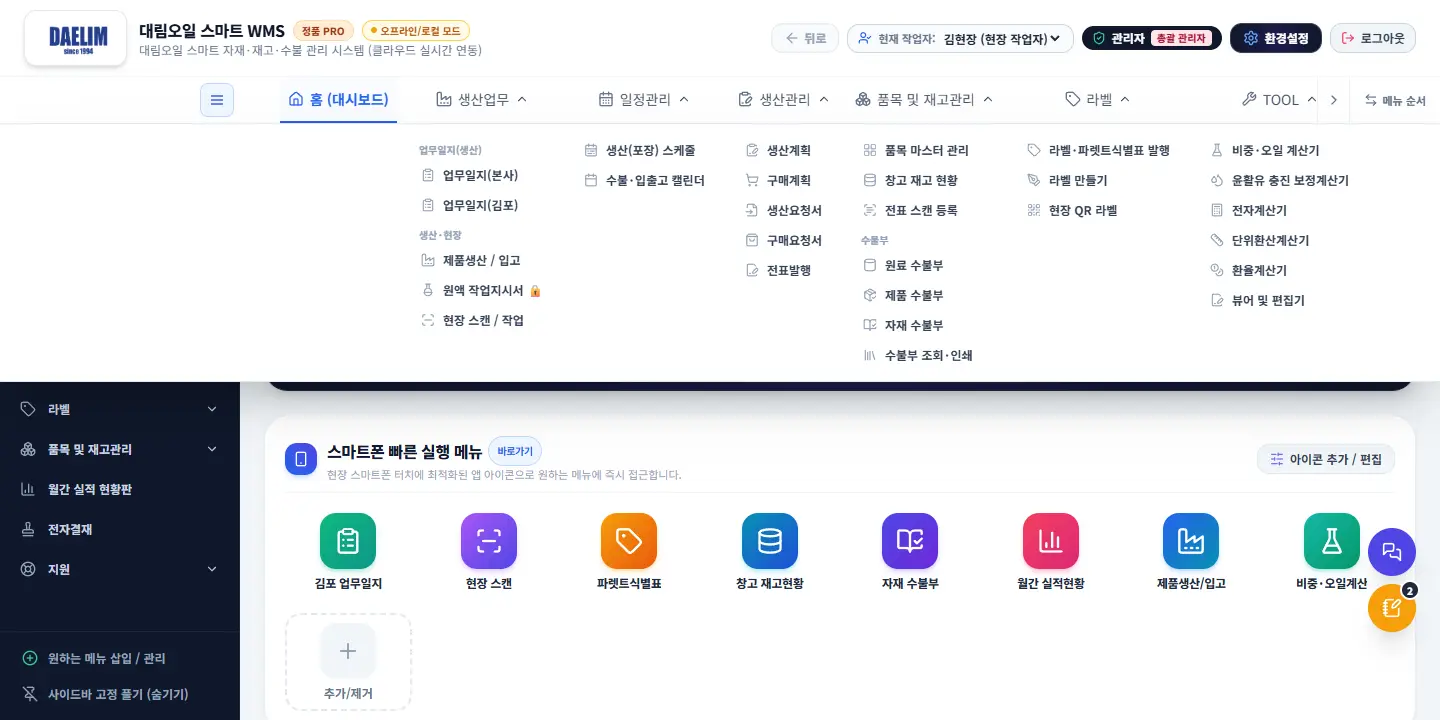
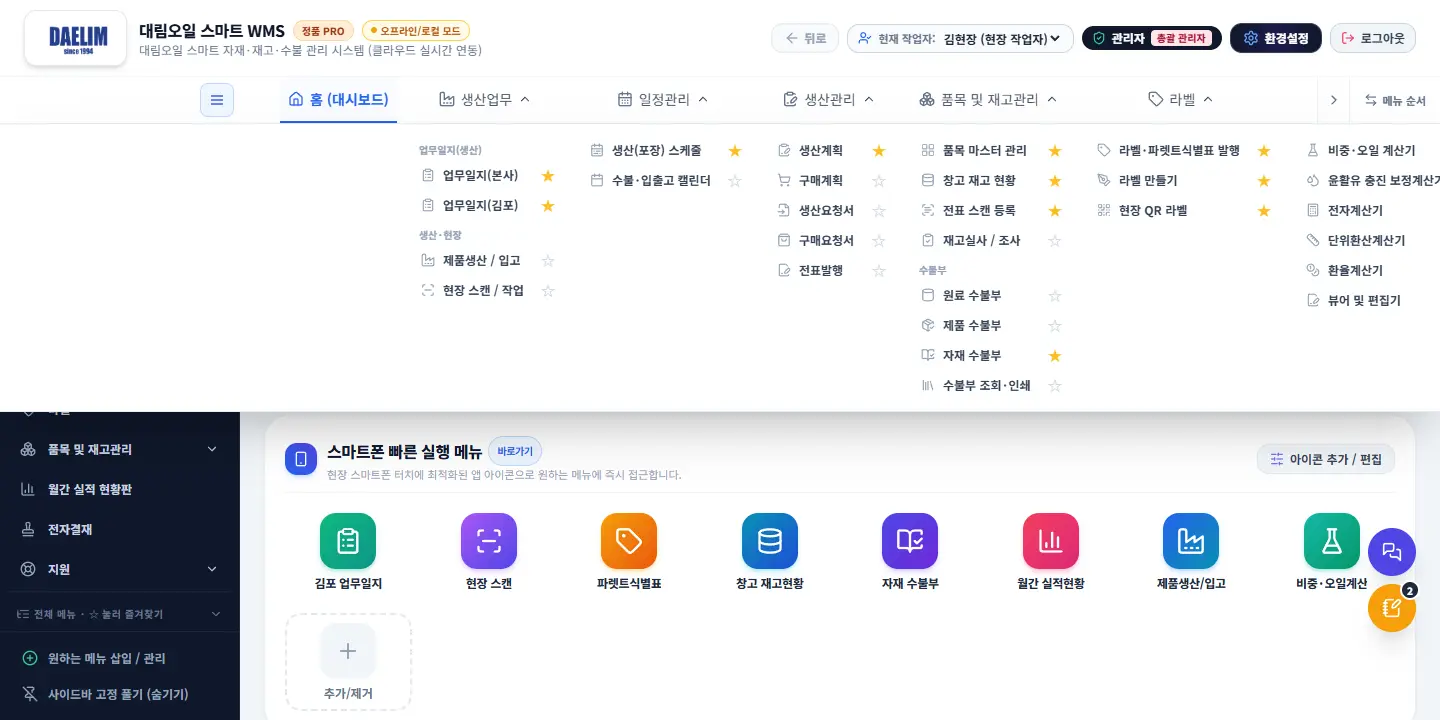
메뉴 정리: 재고실사 → 품목 및 재고관리, 원액 작업지시서 단독(접기·펼치기), 즐겨찾기, 모든 메뉴 아이콘
- 재고실사/조사를 품목 및 재고관리 묶음으로 이동
- 원액 작업지시서 🔒를 TOOL 오른쪽 단독 메뉴로, ‹ 로 접으면 자물쇠만 (기기별 기억)
- 사이드바 '전체 메뉴' 목록과 상단 전체 메뉴에서 ☆로 즐겨찾기 등록/해제
- 홈 빠른 실행 아이콘: 아이콘이 없던 메뉴(생산계획·전표발행·전자결재·공지사항·계산기 등) 모두 추가
- 매뉴얼 갱신

diff --git a/src/components/Header.js b/src/components/Header.js
@@ -3,7 +3,8 @@ import { isSupabaseConfigured } from '../services/supabase.js';
 import { ROLE_INFO, canAccessTab } from '../services/auth.js';
 import { esc } from '../services/html.js';
 import { createIcons, icons } from '../services/icons.js';
-import { TAB_META, orderedNav, loadNavOrder, saveNavOrder, resetNavOrder } from './navMenu.js';
+import { getPinnedMenus } from './Sidebar.js';
+import { TAB_META, orderedNav, loadNavOrder, saveNavOrder, resetNavOrder, navCollapsed, toggleNavCollapsed } from './navMenu.js';
 
 // 상단 메뉴 순서 바꾸기 모드 (다시 그려도 유지)
 let navEditMode = false;
@@ -29,9 +30,21 @@ export const renderHeader = (container, args) => {
         return items.some(x => typeof x === 'string') ? { ...n, items } : null;
     }).filter(Boolean);
     const groupActive = (n) => n.items?.includes(currentTab);
+    const collapsedIds = navCollapsed();
     const topHtml = (n) => {
         const meta = n.tab ? TAB_META[n.tab] : n;
         const active = n.tab ? n.tab === currentTab : groupActive(n);
+        // 접을 수 있는 메뉴(원액 작업지시서 🔒): 접으면 자물쇠 아이콘만, 누르면 펼침 / 펼치면 이름 옆 ‹ 로 접기
+        if (n.collapsible && !navEditMode) {
+            const folded = collapsedIds.includes(n.id);
+            const cls = `${active ? 'active border-blue-600 text-blue-600 font-bold bg-blue-50/40' : 'border-transparent text-slate-600'} py-3 border-b-2 hover:text-blue-600 flex items-center gap-1.5 whitespace-nowrap transition`;
+            return `<div class="nav-top relative shrink-0 flex items-stretch" data-node="${esc(n.id)}">
+                ${folded
+                    ? `<button type="button" class="nav-collapse ${cls} px-2" data-collapse="${esc(n.id)}" title="${esc(meta.label)} — 눌러서 펼치기"><i data-lucide="lock" class="w-4 h-4 text-amber-600"></i><i data-lucide="chevron-right" class="w-3 h-3 text-slate-400"></i></button>`
+                    : `<button type="button" data-tab="${esc(n.tab)}" class="tab-btn ${cls} pl-2 pr-0.5"><i data-lucide="${meta.icon}" class="w-4 h-4 ${active ? 'text-blue-600' : 'text-amber-600'}"></i><span>${esc(meta.label)}</span></button>
+                       <button type="button" class="nav-collapse self-center ml-0.5 p-1 rounded text-slate-400 hover:text-slate-700 hover:bg-slate-100" data-collapse="${esc(n.id)}" title="메뉴 줄에서 접기 (자물쇠만 보이게)"><i data-lucide="chevron-left" class="w-3.5 h-3.5"></i></button>`}
+            </div>`;
+        }
         return `
             <div class="nav-top relative shrink-0 flex items-stretch" data-node="${esc(n.id)}" ${navEditMode ? 'draggable="true"' : ''}>
                 ${navEditMode ? `<button type="button" class="nav-move self-center px-1 text-slate-400 hover:text-blue-600 font-black" data-dir="-1" title="왼쪽으로">◀</button>` : ''}
@@ -50,8 +63,10 @@ export const renderHeader = (container, args) => {
                 if (typeof x !== 'string') return `<div class="px-2 pt-1.5 pb-0.5 text-[10px] font-black text-slate-400 whitespace-nowrap">${esc(x.heading)}</div>`;
                 const m = TAB_META[x] || { icon: 'circle', label: x, desc: '' };
                 const on = x === currentTab;
-                return `<button type="button" data-tab="${esc(x)}" title="${esc(m.desc)}" class="tab-btn w-full flex items-center gap-2 px-2.5 py-1.5 rounded-lg text-xs font-bold whitespace-nowrap text-left transition ${on ? 'bg-blue-600 text-white' : 'text-slate-700 hover:bg-blue-50 hover:text-blue-700'}">
-                    <i data-lucide="${m.icon}" class="w-3.5 h-3.5 ${on ? 'text-white' : 'text-slate-400'}"></i><span>${esc(m.label)}</span></button>`;
+                const fav = window.__isFavorite ? window.__isFavorite(x) : getPinnedMenus().includes(x);
+                return `<div class="flex items-center gap-0.5"><button type="button" data-tab="${esc(x)}" title="${esc(m.desc)}" class="tab-btn flex-1 flex items-center gap-2 px-2.5 py-1.5 rounded-lg text-xs font-bold whitespace-nowrap text-left transition ${on ? 'bg-blue-600 text-white' : 'text-slate-700 hover:bg-blue-50 hover:text-blue-700'}">
+                    <i data-lucide="${m.icon}" class="w-3.5 h-3.5 ${on ? 'text-white' : 'text-slate-400'}"></i><span>${esc(m.label)}</span></button>
+                    <button type="button" class="nav-fav shrink-0 w-6 h-6 rounded text-sm leading-none ${fav ? 'text-amber-400' : 'text-slate-300 hover:text-amber-400'}" data-fav="${esc(x)}" title="${fav ? '사이드바 즐겨찾기에서 빼기' : '사이드바 즐겨찾기에 등록'}">${fav ? '★' : '☆'}</button></div>`;
             }).join('')}
         </div>`;
     const navTabsHtml = nodes.map(topHtml);
@@ -245,6 +260,14 @@ export const renderHeader = (container, args) => {
             if (mega.classList.contains('hidden')) openMega(); else closeMega(0);
         }));
         document.addEventListener('click', (e) => { if (navRow?.isConnected && !navRow.contains(e.target) && !mega?.contains(e.target)) closeMega(0); });
+        // ☆ = 사이드바 즐겨찾기 등록/해제 (Sidebar.js의 window.__toggleFavorite)
+        megaCols?.querySelectorAll('.nav-fav').forEach(b => b.addEventListener('click', (e) => {
+            e.stopPropagation();
+            const on = window.__toggleFavorite?.(b.dataset.fav);
+            b.textContent = on ? '★' : '☆';
+            b.className = `nav-fav shrink-0 w-6 h-6 rounded text-sm leading-none ${on ? 'text-amber-400' : 'text-slate-300 hover:text-amber-400'}`;
+            b.title = on ? '사이드바 즐겨찾기에서 빼기' : '사이드바 즐겨찾기에 등록';
+        }));
         // 펼친 칸에 커서를 올리면 그 묶음 메뉴 이름도 강조
         megaCols?.querySelectorAll('.nav-col').forEach(col => {
             const top = () => navScroll.querySelector(`.nav-top[data-node="${col.dataset.node}"] button:not(.nav-move)`);
@@ -272,6 +295,8 @@ export const renderHeader = (container, args) => {
         // ---------- 메뉴 순서 바꾸기 (좌우 화살표 · 끌어다 놓아 서로 바꾸기) ----------
         const rerender = () => { renderHeader(container, args); createIcons({ icons }); };
         container.querySelector('#nav-edit-order')?.addEventListener('click', () => { navEditMode = !navEditMode; rerender(); });
+        // 원액 작업지시서 메뉴 접기·펼치기 (기기별 기억)
+        navScroll.querySelectorAll('.nav-collapse').forEach(b => b.addEventListener('click', (e) => { e.stopPropagation(); toggleNavCollapsed(b.dataset.collapse); rerender(); }));
         container.querySelector('#nav-order-reset')?.addEventListener('click', () => { if (!confirm('메뉴 순서를 처음 상태로 되돌릴까요?')) return; resetNavOrder(); rerender(); });
         if (navEditMode) {
             const ids = () => loadNavOrder();

diff --git a/src/components/Sidebar.js b/src/components/Sidebar.js
@@ -2,7 +2,7 @@ import { state } from '../services/db.js';
 import { canAccessTab } from '../services/auth.js';
 import { createIcons, icons } from '../services/icons.js';
 import { esc } from '../services/html.js';
-import { NAV_GROUPS } from './navMenu.js';
+import { NAV_GROUPS, orderedNav, TAB_META } from './navMenu.js';
 
 // 전체 15개 메뉴 마스터 정의
 export const ALL_MENU_ITEMS = [
@@ -112,6 +112,8 @@ export const renderSidebar = (container, { currentTab = 'home', onTabChange }) =
     let peekTimer = null;
     let isMobileOpen = false;
     let pinnedMenuIds = getPinnedMenus();
+    // '전체 메뉴' 목록(☆ 눌러 즐겨찾기 등록) 펼침 여부 (기기별)
+    let allMenuOpen = localStorage.getItem('daelim_sidebar_allmenu') === '1';
     // 펼쳐진 드롭다운 그룹(현재 탭이 속한 그룹은 항상 펼쳐서 보여준다)
     let expandedGroupIds = new Set(NAV_DROPDOWN_GROUPS.filter(g => g.memberIds.includes(currentTab)).map(g => g.id));
 
@@ -180,6 +182,25 @@ export const renderSidebar = (container, { currentTab = 'home', onTabChange }) =
             return header + body;
         };
 
+        // 전체 메뉴 목록 (상단 메뉴와 같은 구성·순서, 권한 있는 메뉴만)
+        const favRow = (id, nested) => {
+            const m = TAB_META[id] || accessibleMenus.find(x => x.id === id);
+            if (!m) return '';
+            const fav = pinnedMenuIds.includes(id);
+            const isActive = id === currentTab;
+            return `<div class="flex items-center gap-0.5">
+                <button type="button" data-sidebar-tab="${esc(id)}" class="sidebar-item flex-1 min-w-0 flex items-center gap-2.5 ${nested ? 'pl-5' : 'pl-2'} pr-2 py-1.5 rounded-lg text-[11px] font-bold transition ${isActive ? 'bg-blue-600 text-white' : 'text-slate-400 hover:bg-slate-800 hover:text-white'}" title="${esc(m.label)}">
+                    <i data-lucide="${m.icon}" class="w-3.5 h-3.5 flex-shrink-0"></i><span class="truncate">${esc(m.label)}</span></button>
+                <button type="button" class="sb-fav w-7 h-7 flex-shrink-0 rounded-lg text-base leading-none ${fav ? 'text-amber-400' : 'text-slate-600 hover:text-amber-300'}" data-fav="${esc(id)}" title="${fav ? '즐겨찾기에서 빼기' : '즐겨찾기에 등록'}">${fav ? '★' : '☆'}</button>
+            </div>`;
+        };
+        const allMenuHtml = () => orderedNav().map(n => {
+            if (n.tab) return accessibleMenus.some(x => x.id === n.tab) ? favRow(n.tab, false) : '';
+            const ids = n.items.filter(x => typeof x === 'string' && accessibleMenus.some(m => m.id === x));
+            if (!ids.length) return '';
+            return `<div class="px-2 pt-2 pb-0.5 text-[10px] font-black text-slate-500 flex items-center gap-1"><i data-lucide="${n.icon}" class="w-3 h-3"></i>${esc(n.label)}</div>${ids.map(id => favRow(id, true)).join('')}`;
+        }).join('');
+
         container.innerHTML = `
         <!-- 모바일 백드롭 오버레이 -->
         <div id="sidebar-backdrop" class="fixed inset-0 bg-slate-950/60 backdrop-blur-xs z-40 transition-opacity duration-300 md:hidden ${isMobileOpen ? 'opacity-100 pointer-events-auto' : 'opacity-0 pointer-events-none'}"></div>
@@ -228,6 +249,15 @@ export const renderSidebar = (container, { currentTab = 'home', onTabChange }) =
                         <button type="button" id="btn-add-first-menu" class="mt-2 text-blue-400 font-bold underline">메뉴 추가하기</button>
                     </div>
                 ` : ''}
+
+                <!-- 전체 메뉴: ☆를 누르면 위 즐겨찾는 메뉴에 등록/해제 -->
+                <div class="mt-3 pt-2 border-t border-slate-800">
+                    <button type="button" id="btn-sidebar-allmenu" class="w-full flex items-center justify-between px-2 py-1.5 text-[10px] font-black text-slate-500 hover:text-slate-300 tracking-wider">
+                        <span class="flex items-center gap-1"><i data-lucide="list-tree" class="w-3.5 h-3.5"></i>전체 메뉴 · ☆ 눌러 즐겨찾기</span>
+                        <i data-lucide="${allMenuOpen ? 'chevron-up' : 'chevron-down'}" class="w-3.5 h-3.5"></i>
+                    </button>
+                    ${allMenuOpen ? allMenuHtml() : ''}
+                </div>
             </div>
 
             <!-- 하단: 사이드바 접기/펼기 & 메뉴 추가 설정 버튼 -->
@@ -313,6 +343,14 @@ export const renderSidebar = (container, { currentTab = 'home', onTabChange }) =
             });
         });
 
+        // 전체 메뉴 펼치기/접기, ☆ 즐겨찾기 등록/해제
+        container.querySelector('#btn-sidebar-allmenu')?.addEventListener('click', () => {
+            allMenuOpen = !allMenuOpen;
+            try { localStorage.setItem('daelim_sidebar_allmenu', allMenuOpen ? '1' : '0'); } catch { /* 무시 */ }
+            render();
+        });
+        container.querySelectorAll('.sb-fav').forEach(b => b.addEventListener('click', (e) => { e.stopPropagation(); toggleFavorite(b.dataset.fav); }));
+
         // 드롭다운 그룹 펼치기/접기 (사이드바가 접혀있으면 펼침 목록을 보여줄 수 없으므로 펼치기 대신 펼치기)
         container.querySelectorAll('[data-sidebar-group-toggle]').forEach(btn => {
             btn.addEventListener('click', () => {
@@ -389,6 +427,17 @@ export const renderSidebar = (container, { currentTab = 'home', onTabChange }) =
             render();
         });
     };
+
+    // 즐겨찾기(사이드바 고정 메뉴) 등록/해제 — 상단 전체 메뉴의 ☆에서도 부른다
+    function toggleFavorite(id) {
+        pinnedMenuIds = pinnedMenuIds.includes(id) ? pinnedMenuIds.filter(x => x !== id) : [...pinnedMenuIds, id];
+        savePinnedMenus(pinnedMenuIds);
+        render();
+        window.dispatchEvent(new CustomEvent('sidebar:favorites', { detail: { ids: pinnedMenuIds } }));
+        return pinnedMenuIds.includes(id);
+    }
+    window.__toggleFavorite = toggleFavorite;
+    window.__isFavorite = (id) => pinnedMenuIds.includes(id);
 
     // 외부에서 모바일 드로어를 열 수 있는 글로벌 메서드
     window.__openMobileSidebar = () => {

diff --git a/src/data/manualContent.js b/src/data/manualContent.js
@@ -67,9 +67,10 @@ const USER_MANUAL = {
                     steps: [
                         '**머리글**: `뒤로`, `현재 작업자` 선택, 내 역할, `환경설정`, `로그아웃`이 있습니다.',
                         '**메뉴 줄**: 메뉴 줄에 마우스를 올리면 **모든 묶음 메뉴가 한꺼번에 아래로 펼쳐지고**(각 메뉴 바로 아래 칸), 원하는 하위 메뉴를 누르면 이동합니다. 스마트폰·태블릿은 묶음 메뉴 이름을 누르면 펼쳐집니다. 줄이 넘치면 좌우 화살표나 마우스 휠로 넘깁니다.',
-                        '**메뉴 구성**: 홈 · **생산업무**(업무일지 본사·김포, 제품생산/입고, 원액 작업지시서, 현장 스캔) · **일정관리**(생산(포장) 스케줄, 수불·입출고 캘린더) · 생산관리 · 품목 및 재고관리 · 라벨 · TOOL · … · 지원.',
+                        '**메뉴 구성**: 홈 · **생산업무**(업무일지 본사·김포, 제품생산/입고, 현장 스캔) · **일정관리**(생산(포장) 스케줄, 수불·입출고 캘린더) · 생산관리 · 품목 및 재고관리(재고실사 포함) · 라벨 · TOOL · **원액 작업지시서 🔒** · … · 지원.',
+                        '**원액 작업지시서 🔒**(권한자만 보임)는 메뉴 이름 옆 ‹ 를 누르면 자물쇠만 남게 **접히고**, 자물쇠를 누르면 다시 **펼쳐집니다** (이 기기에 기억).',
                         '**메뉴 순서 바꾸기**: 메뉴 줄 오른쪽 끝 `⇄ 메뉴 순서`를 누르고, 메뉴의 ◀ ▶ 를 누르거나 메뉴를 끌어다 다른 메뉴 위에 놓으면 두 메뉴의 자리가 바뀝니다. 다 되면 `순서 바꾸기 끝`. `기본 순서`로 되돌립니다 (이 기기에 저장).',
-                        '**사이드바**: 자주 쓰는 메뉴를 모아 둔 곳입니다. `편집` 또는 `원하는 메뉴 삽입 / 관리`로 메뉴를 넣고 뺍니다. ☰ 버튼으로 고정/숨김을 바꿉니다 (숨김이면 ☰에 마우스를 올릴 때 펼쳐짐).',
+                        '**사이드바 즐겨찾기**: 사이드바 아래 `전체 메뉴 · ☆ 눌러 즐겨찾기`를 펼쳐 메뉴 옆 ☆를 누르면 위 **즐겨찾는 메뉴**에 등록(★)되고, 다시 누르면 빠집니다. 상단 전체 메뉴의 ☆로도 등록합니다. `편집` 또는 `원하는 메뉴 삽입 / 관리`로 한꺼번에 고를 수도 있습니다. ☰ 버튼으로 고정/숨김을 바꿉니다 (숨김이면 ☰에 마우스를 올릴 때 펼쳐짐).',
                         '**현재 작업자**: 입출고 기록에 남을 작업자 이름입니다. 공용 기기에서는 작업 전에 본인 이름으로 바꾸세요 (사원증 QR로도 바꿀 수 있음).'
                     ],
                     tips: [
@@ -105,7 +106,7 @@ const USER_MANUAL = {
                     image: 'home.webp', caption: '홈: 요약 카드, 스마트폰 빠른 실행 메뉴, 앱 설치 QR',
                     steps: [
                         '맨 위 **요약 카드**에서 등록 품목 수, 창고 보관 총수량, 안전재고 부족 경보, 오늘 일정을 확인합니다.',
-                        '**스마트폰 빠른 실행 메뉴**의 아이콘을 눌러 바로 이동합니다. `아이콘 추가 / 편집`으로 내 아이콘을 바꿉니다.',
+                        '**스마트폰 빠른 실행 메뉴**의 아이콘을 눌러 바로 이동합니다. `아이콘 추가 / 편집`으로 내 아이콘을 바꿉니다. **모든 메뉴**(생산계획·전표발행·전자결재·공지사항·계산기 등)를 아이콘으로 넣을 수 있습니다.',
                         '`위젯 편집`·`대시보드 설정`으로 보이는 위젯을 고르고, `실시간 새로고침`으로 최신 자료를 다시 받습니다.'
                     ],
                     tips: ['다른 사람이 입출고하면 재고는 자동으로 갱신됩니다. 원료수불부·일지처럼 자동 갱신되지 않는 자료는 `실시간 새로고침`이나 페이지 새로고침으로 받으세요.']
@@ -303,7 +304,7 @@ const USER_MANUAL = {
         },
         {
             id: 'secure-wo', part: '2. 생산·공급', icon: 'flask-round', title: '원액생산 작업지시서 🔒', tab: 'secureWorkOrders',
-            menu: '`생산업무` → `원액 작업지시서 🔒`', roles: '마스터 · 작업일지 관리자 (환경설정 → 계정에서 마스터가 지정)',
+            menu: '`원액 작업지시서 🔒` (TOOL 오른쪽, 접기·펼치기)', roles: '마스터 · 작업일지 관리자 (환경설정 → 계정에서 마스터가 지정)',
             summary: '제조시방서(원료 실명·배합비)와 원액생산 작업지시서를 관리하는 **특별보안** 화면입니다. 배합 자료는 클라우드 DB에만 있고, 권한이 없는 사람에게는 메뉴가 보이지 않습니다.',
             sections: [
                 {
@@ -842,7 +843,7 @@ const USER_MANUAL = {
             ]
         },
         {
-            id: 'audit', part: '6. 품목 · 재고 · 수불', icon: 'clipboard-check', title: '재고실사 (QR 스캔 실사 포함)', tab: 'audit', menu: '`재고실사 / 조사`', roles: MGR,
+            id: 'audit', part: '6. 품목 · 재고 · 수불', icon: 'clipboard-check', title: '재고실사 (QR 스캔 실사 포함)', tab: 'audit', menu: '`품목 및 재고관리` → `재고실사 / 조사`', roles: MGR,
             summary: '현장에서 센 수량을 입력해 전산 재고와의 오차(초과·손실)를 보고 **한 번에 반영**합니다. 위치 QR + 품목 QR로 세는 **QR 스캔 실사**를 쓸 수 있습니다.',
             sections: [
                 {

diff --git a/src/components/navMenu.js b/src/components/navMenu.js
@@ -48,13 +48,14 @@ export const TAB_META = {
 
 export const NAV_TREE = [
     { id: 'home', tab: 'home' },
-    { id: 'prodWork', label: '생산업무', icon: 'factory', items: [{ heading: '업무일지(생산)' }, 'hqLog', 'gimpoLog', { heading: '생산·현장' }, 'production', 'secureWorkOrders', 'scan'] },
+    { id: 'prodWork', label: '생산업무', icon: 'factory', items: [{ heading: '업무일지(생산)' }, 'hqLog', 'gimpoLog', { heading: '생산·현장' }, 'production', 'scan'] },
     { id: 'schedule', label: '일정관리', icon: 'calendar-days', items: ['prodSchedule', 'calendar'] },
     { id: 'plan', label: '생산관리', icon: 'clipboard-pen-line', items: ['prodPlan', 'purchPlan', 'prodRequest', 'purchRequest', 'slipIssue'] },
-    { id: 'stock', label: '품목 및 재고관리', icon: 'boxes', items: ['master', 'inventory', 'docScan', { heading: '수불부' }, 'rawLedger', 'productLedger', 'ledger', 'ledgerViewer'] },
+    { id: 'stock', label: '품목 및 재고관리', icon: 'boxes', items: ['master', 'inventory', 'docScan', 'audit', { heading: '수불부' }, 'rawLedger', 'productLedger', 'ledger', 'ledgerViewer'] },
     { id: 'labelGroup', label: '라벨', icon: 'tag', items: ['label', 'labelDesigner', 'fieldQr'] },
     { id: 'tool', label: 'TOOL', icon: 'wrench', items: ['oilcalc', 'lubCalc', 'calc', 'unitConv', 'fxCalc', 'docTools'] },
-    { id: 'audit', tab: 'audit' },
+    // 특별보안: 메뉴 줄에서 접어(🔒만) 숨기거나 펼칠 수 있다 (collapsible)
+    { id: 'secureWorkOrders', tab: 'secureWorkOrders', collapsible: true },
     { id: 'analytics', tab: 'analytics' },
     { id: 'planning', tab: 'planning' },
     { id: 'eApproval', tab: 'eApproval' },
@@ -83,5 +84,9 @@ export const loadNavOrder = () => {
     return known;
 };
 export const saveNavOrder = (order) => { try { localStorage.setItem(ORDER_KEY, JSON.stringify(order)); } catch { /* 무시 */ } };
+// 접을 수 있는 메뉴(원액 작업지시서)의 접힘 상태 (기기별)
+const COLLAPSE_KEY = 'daelim_nav_collapsed';
+export const navCollapsed = () => { try { return JSON.parse(localStorage.getItem(COLLAPSE_KEY) || '[]'); } catch { return []; } };
+export const toggleNavCollapsed = (id) => { const list = navCollapsed(); const next = list.includes(id) ? list.filter(x => x !== id) : [...list, id]; try { localStorage.setItem(COLLAPSE_KEY, JSON.stringify(next)); } catch { /* 무시 */ } return next.includes(id); };
 export const resetNavOrder = () => { try { localStorage.removeItem(ORDER_KEY); } catch { /* 무시 */ } };
 export const orderedNav = () => { const order = loadNavOrder(); return order.map(id => NAV_TREE.find(n => n.id === id)).filter(Boolean); };

diff --git a/src/components/Dashboard.js b/src/components/Dashboard.js
@@ -6,6 +6,7 @@ import { GOOGLE_AUDIT_URL } from './AuditManager.js';
 import { locationOptionsHtml } from '../services/locations.js';
 import { esc } from '../services/html.js';
 import { canAccessTab } from '../services/auth.js';
+import { TAB_META } from './navMenu.js';
 
 // 스마트폰 퀵 런처 전체 메뉴 바로가기 정의 (모든 메뉴를 아이콘으로 추가/제거할 수 있도록 전 메뉴 포함)
 export const ALL_DASHBOARD_SHORTCUTS = [
@@ -29,6 +30,19 @@ export const ALL_DASHBOARD_SHORTCUTS = [
     { id: 'history', label: '작업/감사 이력', icon: 'history', gradient: 'from-slate-600 to-slate-800', shadow: 'shadow-slate-500/25', desc: '모든 입출고 및 수정 감사 로그' },
     { id: 'settings', label: '시스템 설정', icon: 'settings', gradient: 'from-gray-600 to-gray-800', shadow: 'shadow-gray-500/25', desc: '사용자 및 데이터베이스 설정' }
 ];
+
+// 위 목록에 없는 메뉴(새로 생긴 메뉴 포함)도 모두 앱 아이콘으로 쓸 수 있게 메뉴 정의(navMenu.js)에서 만든다
+const EXTRA_GRADIENTS = [
+    ['from-blue-500 to-indigo-600', 'shadow-blue-500/25'], ['from-emerald-500 to-green-700', 'shadow-emerald-500/25'],
+    ['from-orange-500 to-red-600', 'shadow-orange-500/25'], ['from-fuchsia-500 to-purple-700', 'shadow-fuchsia-500/25'],
+    ['from-cyan-500 to-sky-700', 'shadow-cyan-500/25'], ['from-lime-500 to-emerald-700', 'shadow-lime-500/25'],
+    ['from-rose-500 to-red-700', 'shadow-rose-500/25'], ['from-yellow-500 to-amber-700', 'shadow-yellow-500/25'],
+    ['from-teal-500 to-cyan-700', 'shadow-teal-500/25'], ['from-violet-500 to-indigo-700', 'shadow-violet-500/25']
+];
+Object.entries(TAB_META).filter(([id]) => id !== 'home' && !ALL_DASHBOARD_SHORTCUTS.some(s => s.id === id)).forEach(([id, m], i) => {
+    const [gradient, shadow] = EXTRA_GRADIENTS[i % EXTRA_GRADIENTS.length];
+    ALL_DASHBOARD_SHORTCUTS.push({ id, label: m.label.replace(/\s*🔒/, ''), icon: m.icon, gradient, shadow, desc: m.desc });
+});
 
 // 바로가기를 보여줄지: 그 메뉴에 들어갈 권한이 있을 때만 (파렛트식별표는 라벨 메뉴 권한)
 const canShowShortcut = (id) => canAccessTab(id === 'palletLabel' ? 'label' : id);
